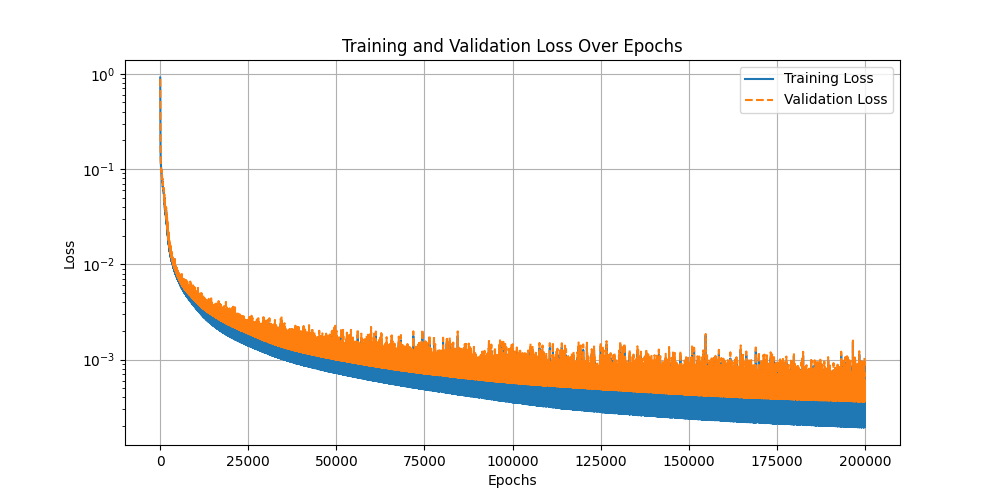
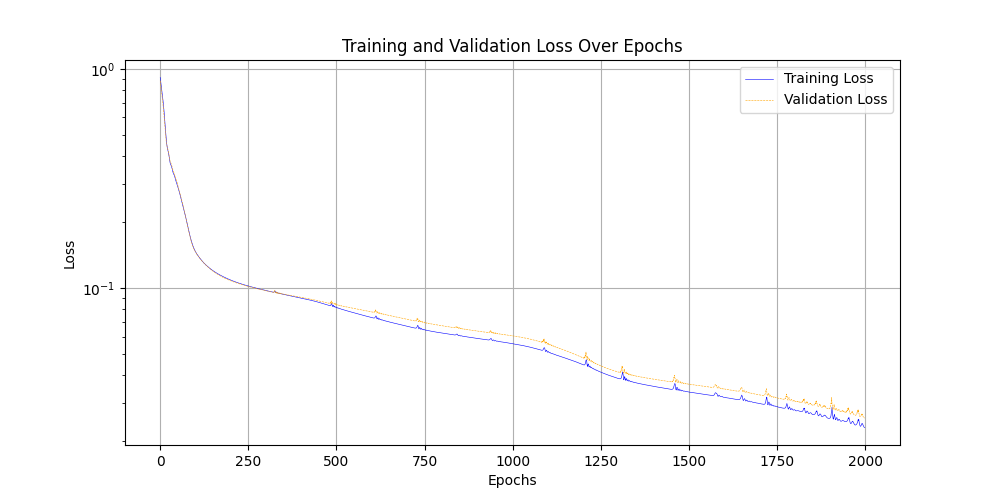
New_plots

diff --git a/main/continuous_time_identification (Navier-Stokes)/NavierStokes_Pytorch_V9.py b/main/continuous_time_identification (Navier-Stokes)/NavierStokes_Pytorch_V9.py
@@ -6,7 +6,9 @@ import scipy.io
 import matplotlib.pyplot as plt
 from torch.autograd import grad
 import time
-from sklearn.model_selection import train_test_split
+from sklearn.model_selection import train_test_split 
+import matplotlib.pyplot as plt
+from mpl_toolkits.axes_grid1.inset_locator import inset_axes    
 
 # Set seeds for reproducibility
 np.random.seed(1234)
@@ -205,9 +207,12 @@ def train_pinn(data_path, layers, rho1=1.0, rho2=1.0, epochs=200000, batch_size=
 
     # Plot and save the loss curve if tracking loss
     if track_loss:
+       # Plot and save the training and validation loss curves
+        lw = 0.2
+        msz = 0.05
         plt.figure(figsize=(10, 5))
-        plt.semilogy(range(epochs), train_loss_history, label="Training Loss")
-        plt.semilogy(range(epochs), val_loss_history, label="Validation Loss", linestyle='--')
+        plt.semilogy(range(epochs), train_loss_history, label="Training Loss", linestyle='-', color='blue', linewidth=lw+0.2, markersize=msz)
+        plt.semilogy(range(epochs), val_loss_history, label="Validation Loss", linestyle='--', color='orange', linewidth=lw + 0.2, markersize=msz)
         plt.xlabel("Epochs")
         plt.ylabel("Loss")
         plt.title("Training and Validation Loss Over Epochs")
@@ -220,10 +225,11 @@ def train_pinn(data_path, layers, rho1=1.0, rho2=1.0, epochs=200000, batch_size=
 
         # Plot and save the individual loss curves
         plt.figure(figsize=(10, 5))
-        plt.semilogy(range(epochs), mse_u_history, label="MSE U")
-        plt.semilogy(range(epochs), mse_v_history, label="MSE V")
-        plt.semilogy(range(epochs), mse_f_u_history, label="MSE f_u")
-        plt.semilogy(range(epochs), mse_f_v_history, label="MSE f_v")
+        
+        plt.semilogy(range(epochs), mse_u_history, label="MSE U", linestyle='-', marker='o', color='red', linewidth=lw, markersize=msz)
+        plt.semilogy(range(epochs), mse_v_history, label="MSE V", linestyle='--', marker='s', color='green', linewidth=lw, markersize=msz)
+        plt.semilogy(range(epochs), mse_f_u_history, label="MSE f_u", linestyle='-.', marker='^', color='blue', linewidth=lw, markersize=msz)
+        plt.semilogy(range(epochs), mse_f_v_history, label="MSE f_v", linestyle=':', marker='x', color='purple', linewidth=lw, markersize=msz)
         plt.xlabel("Epochs")
         plt.ylabel("MSE Loss")
         plt.title("Individual MSE Losses Over Epochs")
@@ -234,6 +240,8 @@ def train_pinn(data_path, layers, rho1=1.0, rho2=1.0, epochs=200000, batch_size=
         plt.show()
         print(f"Individual MSE loss curves saved successfully as {mse_loss_curve_name}!")
 
+
+
 # Example usage
 if __name__ == "__main__":
     layers = [3, 20, 20, 20, 20, 20, 20, 20, 20, 2]
@@ -242,4 +250,4 @@ if __name__ == "__main__":
     rho1 = 1.0  # Set your rho1 value here
     rho2 = 1.0  # Set your rho2 value here
     dropout_prob = 0  # Set your dropout probability here
-    train_pinn(data_path, layers, rho1=rho1, rho2=rho2, epochs=200000, batch_size=5000, lr=0.001, noise_level=0, save_path=save_path, track_loss=True, dropout_prob=dropout_prob)
+    train_pinn(data_path, layers, rho1=rho1, rho2=rho2, epochs=2000, batch_size=5000, lr=0.001, noise_level=0, save_path=save_path, track_loss=True, dropout_prob=dropout_prob)
